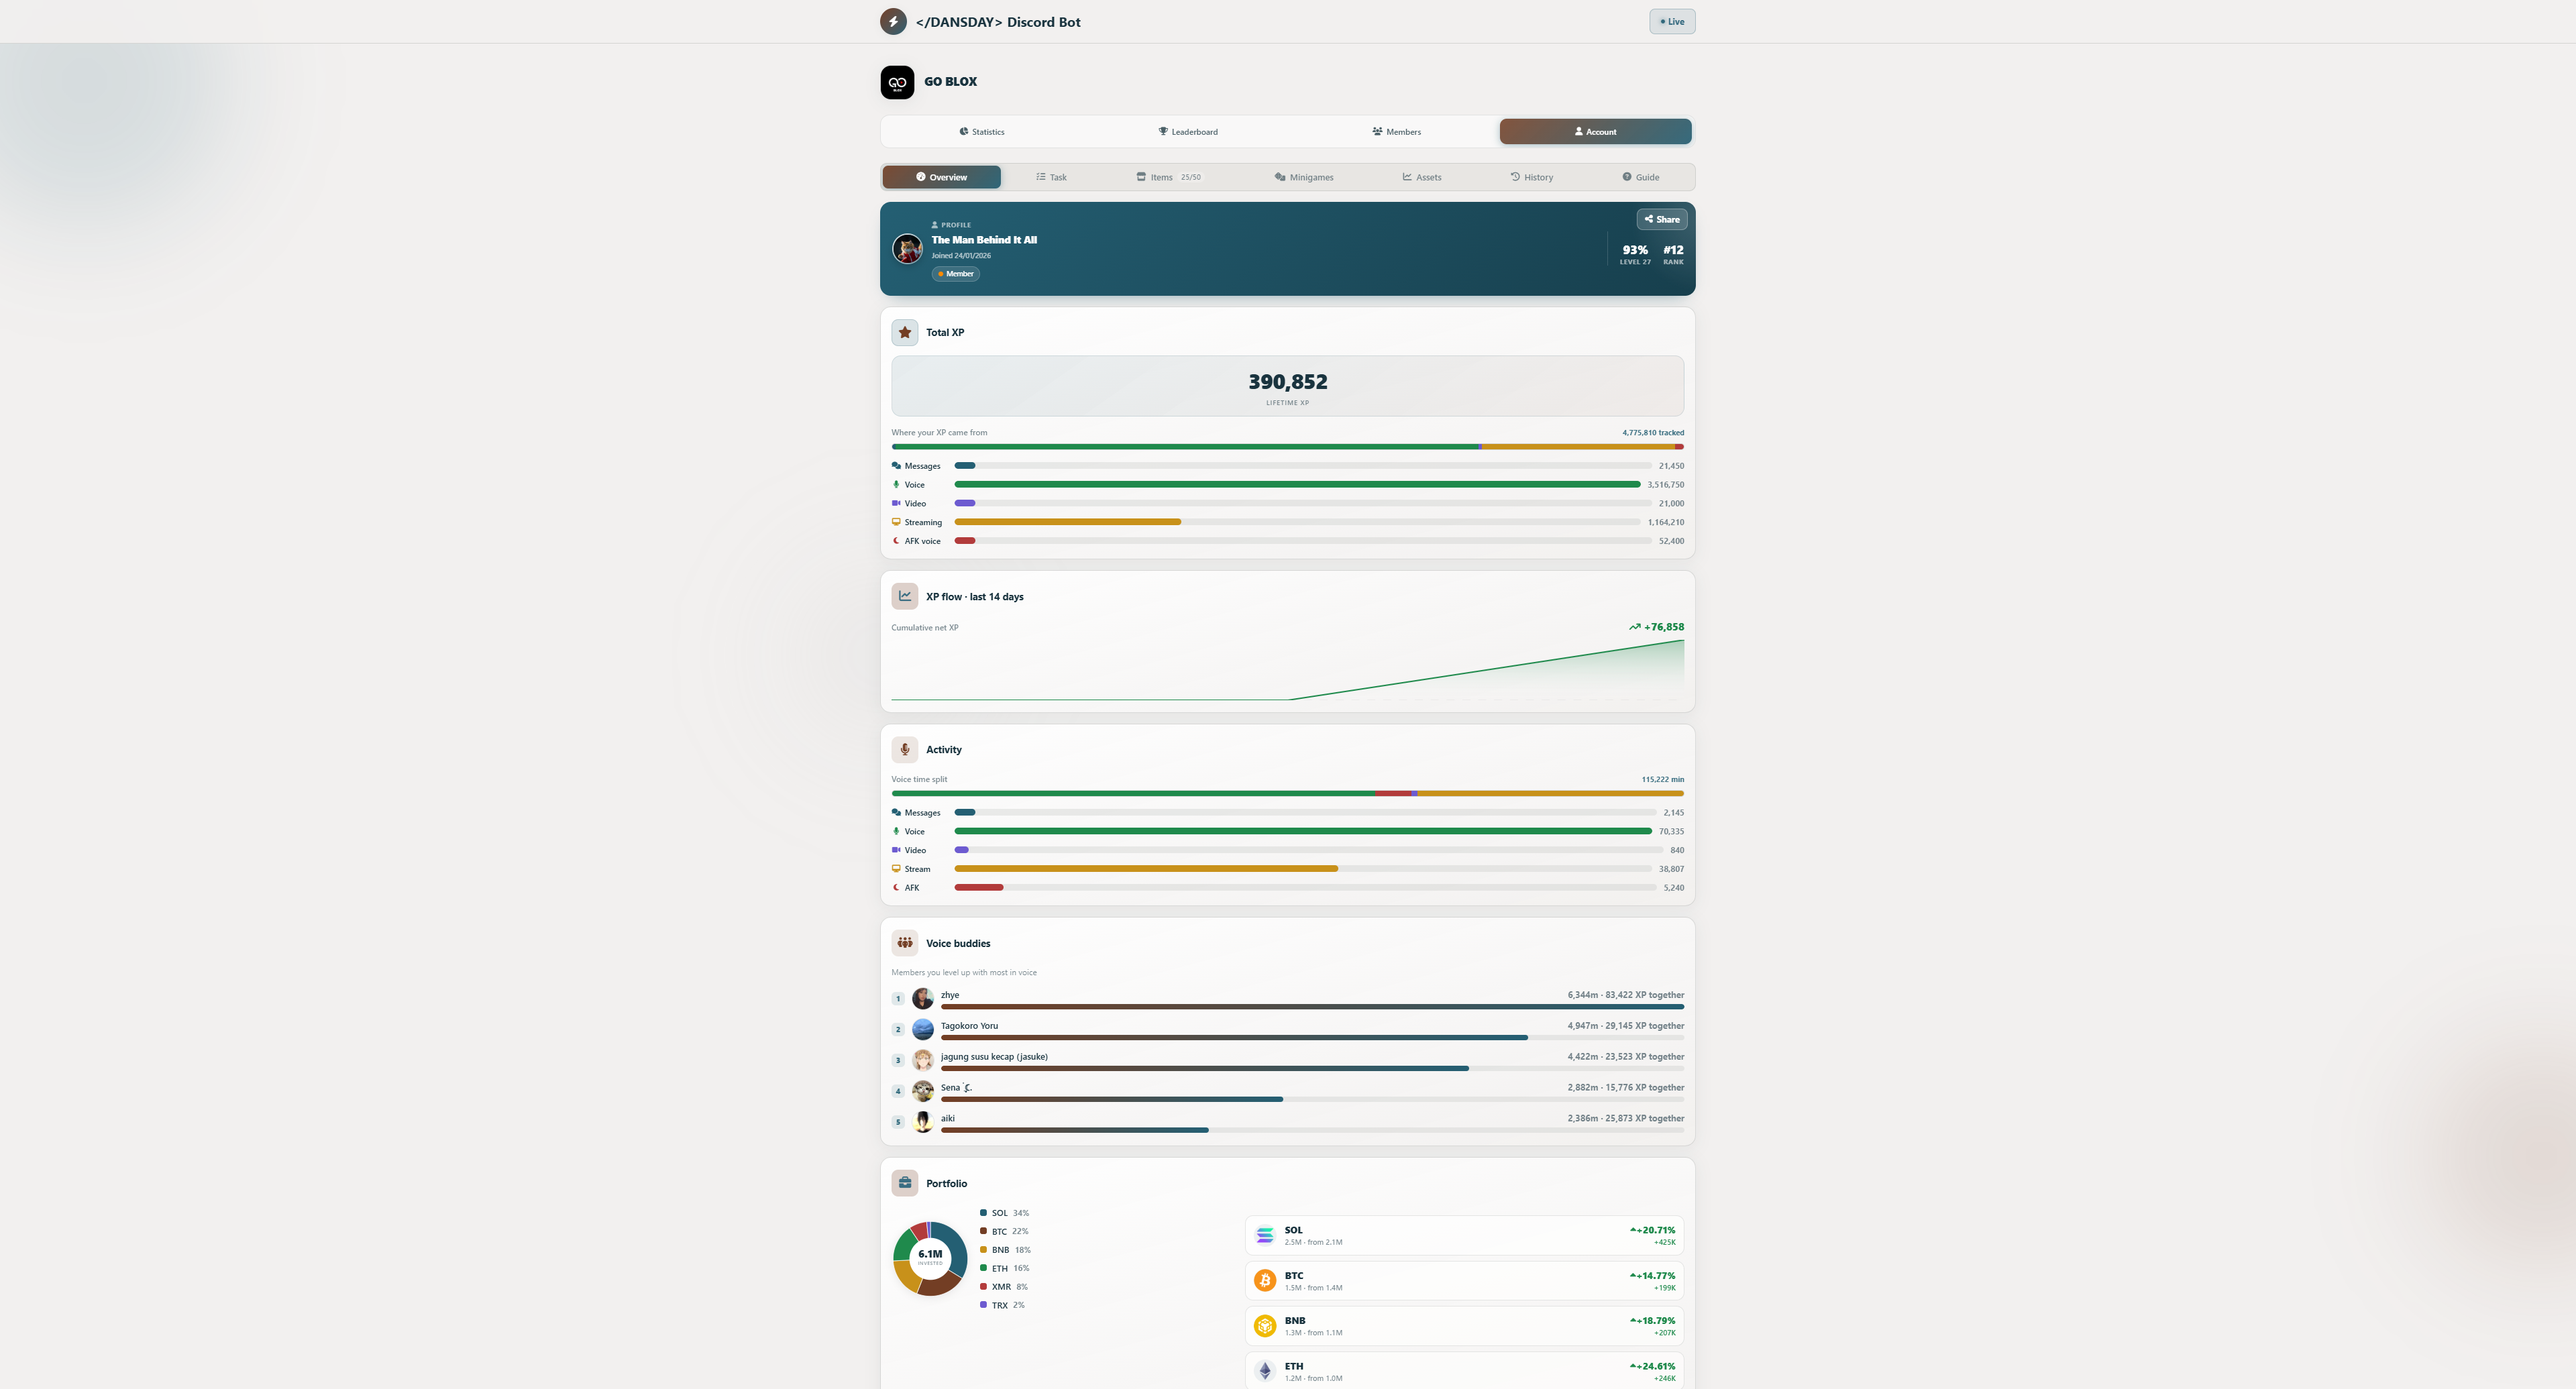
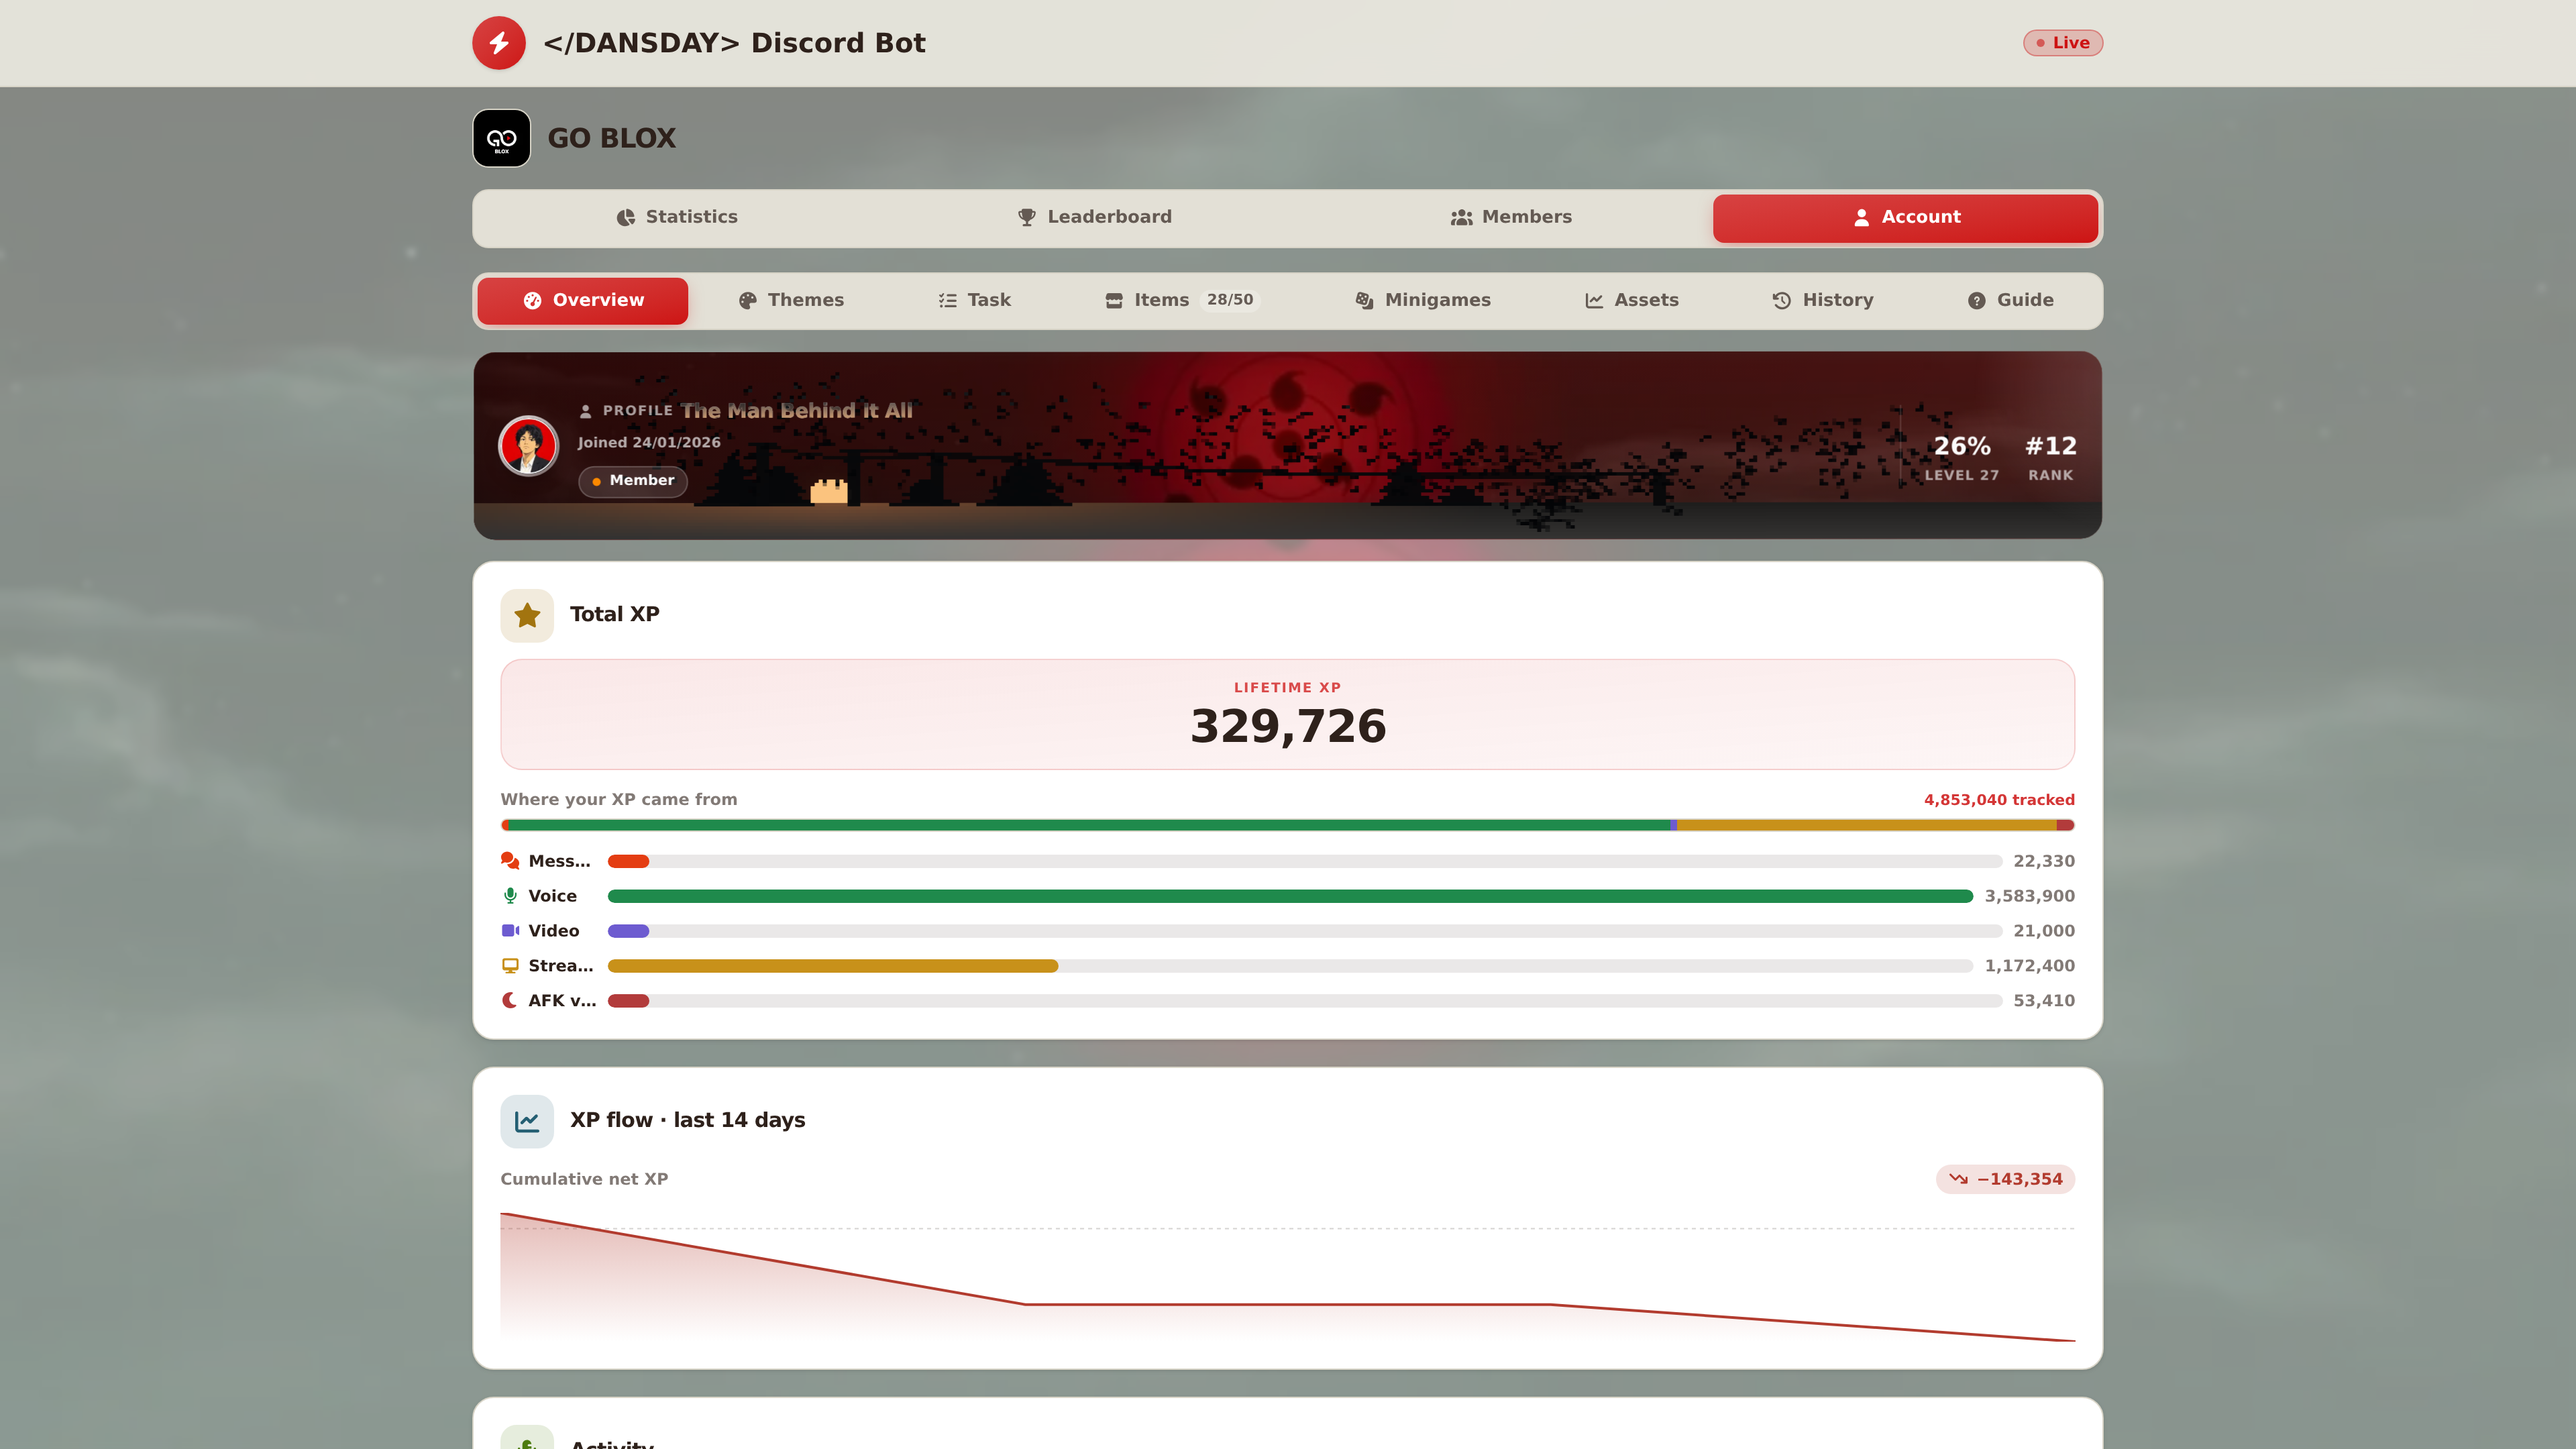
Update documentation

diff --git a/README.md b/README.md
@@ -15,9 +15,39 @@ Leveling, moderation, embed builder, Discord Quests, creator tools, public stati
 </tr>
 </table>
 
+### Public directories
+
+No login needed. The site indexes every public server, quest, item, task and wiki in one place.
+
+<table>
+<tr>
+<td width="33%"><img src=".github/screenshots/servers.png" alt="Server directory ranking every public server by XP, members and activity"></td>
+<td width="33%"><img src=".github/screenshots/quests.png" alt="Discord Quests directory with game art, rewards and expiry dates"></td>
+<td width="33%"><img src=".github/screenshots/roblox.png" alt="Roblox catalog directory with prices, stock and favourites"></td>
+</tr>
+<tr>
+<td><strong>Servers</strong> — every public server, ranked by XP.</td>
+<td><strong>Quests</strong> — live Discord Quests with rewards and expiry.</td>
+<td><strong>Roblox catalog</strong> — 10.7K items, priced and ordered by favourites.</td>
+</tr>
+</table>
+
+<table>
+<tr>
+<td width="33%"><img src=".github/screenshots/shop.png" alt="Item catalog listing every shop item with its effect and rarity"></td>
+<td width="33%"><img src=".github/screenshots/tasks.png" alt="Task catalog listing every daily and weekly task with its reward"></td>
+<td width="33%"><img src=".github/screenshots/wikis.png" alt="Wiki knowledge base explaining each module"></td>
+</tr>
+<tr>
+<td><strong>Items</strong> — what every shop item does, before you buy it.</td>
+<td><strong>Tasks</strong> — every daily and weekly task and its reward.</td>
+<td><strong>Wikis</strong> — how each module works, in plain language.</td>
+</tr>
+</table>
+
 ### Public server pages
 
-No login needed. Every server gets its own live pages at `/server/<slug>`.
+Every server gets its own live pages at `/server/<slug>`.
 
 <table>
 <tr>
@@ -59,6 +89,28 @@ Each member signs in to their own account on those same pages.
 <td><strong>Assets</strong> — live CoinGecko prices, no real money.</td>
 <td><strong>Minigames</strong> — wager XP above your current level.</td>
 <td><strong>History</strong> — every XP event, filterable by source.</td>
+</tr>
+</table>
+
+<table>
+<tr>
+<td width="50%"><img src=".github/screenshots/account-themes.png" alt="Themes tab with animated card effects unlocked by spinning"></td>
+<td width="50%"><img src=".github/screenshots/account-guide.png" alt="Guide tab walking through XP, tasks, items and the market"></td>
+</tr>
+<tr>
+<td><strong>Themes</strong> — animated card effects, won from a spin.</td>
+<td><strong>Guide</strong> — how to earn, spend and compete, one step at a time.</td>
+</tr>
+</table>
+
+### Documentation
+
+<table>
+<tr>
+<td width="100%"><img src=".github/screenshots/docs.png" alt="Setup documentation for adding and configuring the bot"></td>
+</tr>
+<tr>
+<td><strong>Docs</strong> — add the bot, connect a server, configure each module.</td>
 </tr>
 </table>
 
